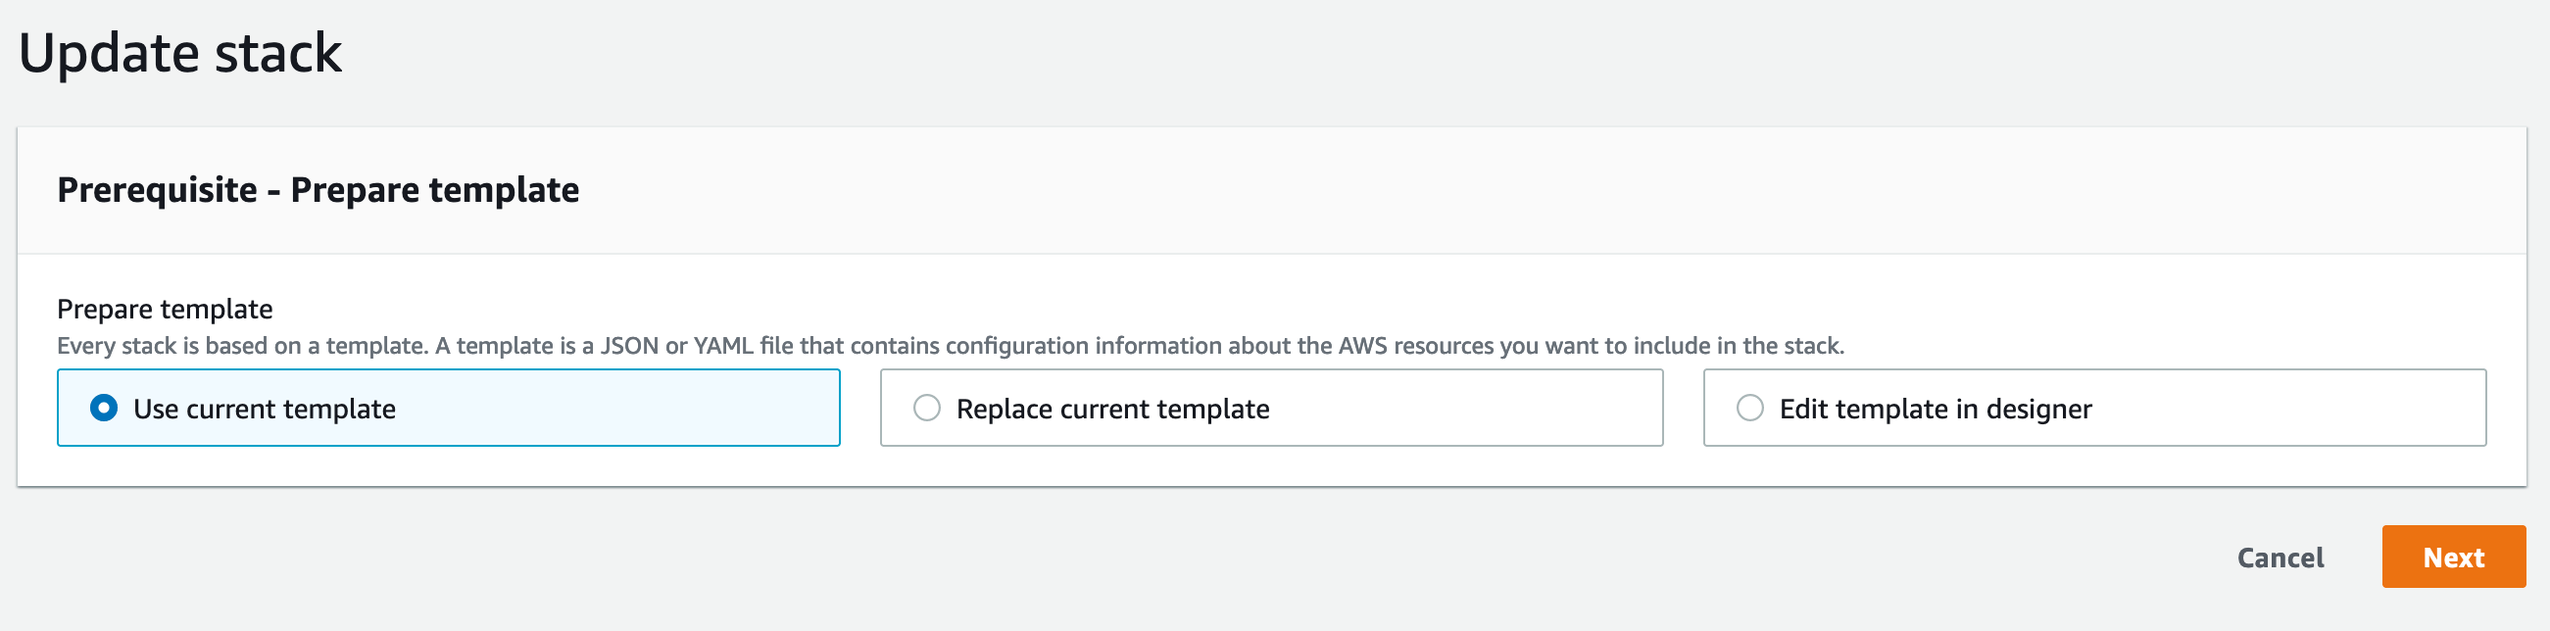
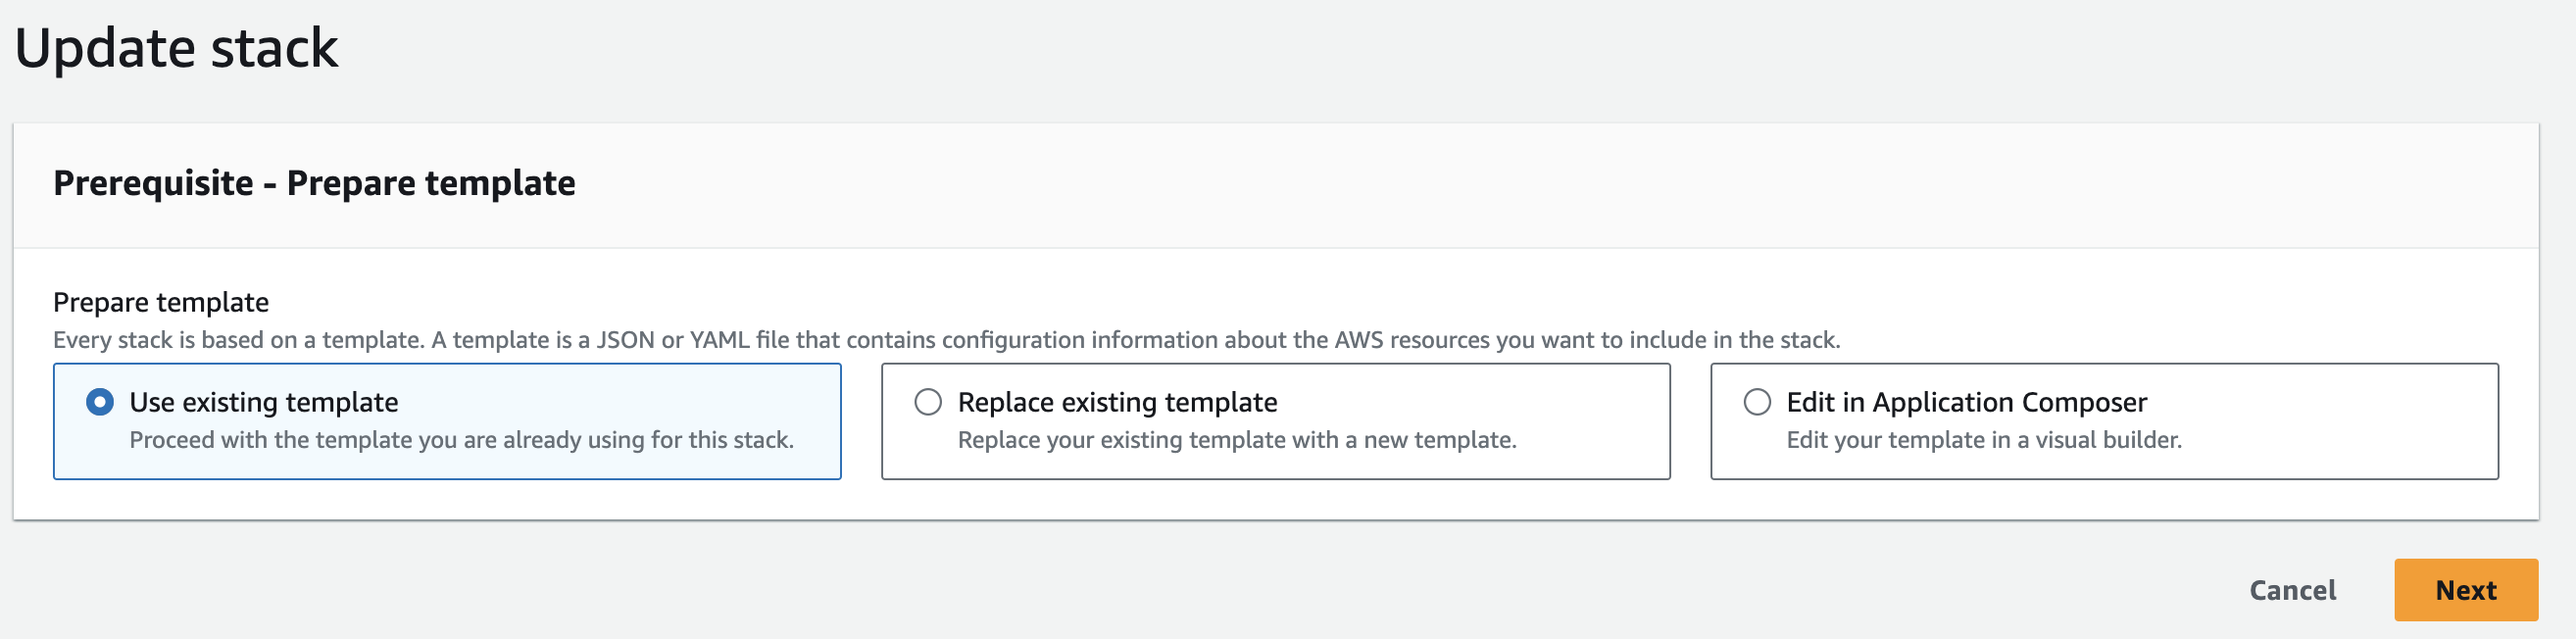
Quickstart AWS tweaks

diff --git a/docs/getting-started/quick-start.md b/docs/getting-started/quick-start.md
@@ -137,7 +137,14 @@ Typesense is optional, since it requires a VPC to be created, which can add to y
 ![Configure VPC](./img/cf-create-parameter-vpc-stackname.png)
 
 The name of the CloudFormation VPC stack that can be created after the initial FormKiQ install, using the add-on <a href="/docs/getting-started/quick-start#create-vpc">CloudFormation template for VPC</a>.
-Some services such as Typesense, Tesseract, and OpenSearch require a VPC. Only required if you are using any of these services; otherwise, this can remain empty.
+
+**Some services require a VPC:**
+
+- Tesseract (for OCR)
+- Typesense (for full-text search)
+- OpenSearch (part of the enhanced full-text search module available as an add-on for FormKiQ Pro/Enterprise)
+
+**This VPC is only required if you are using any of these services; otherwise, this can remain empty.**
 
 Keep selecting `Next` until you get to the last `Submit Create Stack` page. Once you've checked the checkboxes, you can click `Submit` to being the stack creation.
 
@@ -215,7 +222,7 @@ Stack Name will be needed for when you update the main FormKiQ stack.
 
 ![CloudFormation VPC Stack Name](./img/cf-create-parameters-vpc-stack-name.png)
 
-EnableEnterpriseFeatures is for FormKiQ Enterprise; it must be set to true in order for FormKiQ Enterprise to be configured correctly for any add-ons or customizations. **It is not required for FormKiQ Core or Pro.**
+EnableEnterpriseFeatures is for FormKiQ Pro/Enterprise; it must be set to true in order for FormKiQ Pro and Enterprise to be configured correctly for any add-ons or customizations. **It is not required for FormKiQ Core.**
 
 ![CloudFormation VPC Enable Enterprise Features](./img/cf-create-parameters-vpc-enable-enterprise-features.png)
 
@@ -233,17 +240,19 @@ VpcLabel: you should also provide a label for the VPC. This will be visible in t
 
 ## Update FormKiQ Stack
 
+**This step is essential in order to enable access to Tesseract, Typesense or OpenSearch**
+
 After creating the VPC stack, the main FormKiQ CloudFormation stack needs to be updated.
 
 ![CloudFormation Update Stack](./img/cf-updatestack.png)
 
 Select the FormKiQ CloudFormation stack and then click the `Update` button.
 
-When updating the stack you will want to choose `Use current template`.
+When updating the stack you will want to choose `Use existing template`.
 
 ![Set VPC Stack Name](./img/cf-create-parameter-vpc-stackname.png)
 
-For the `VpcStackName` parameter, set the value to the same value you used for the VPC stack you created above.
+For the `VpcStackName` parameter, set the value to the same value you used for the VPC stack you created above; in our example, it was `formkiq-vpc`.
 
 Keep selecting `Next` until you get to the last `Submit Create Stack` page. Once you've checked the checkboxes, you can click `Submit` to being the stack creation.
 
